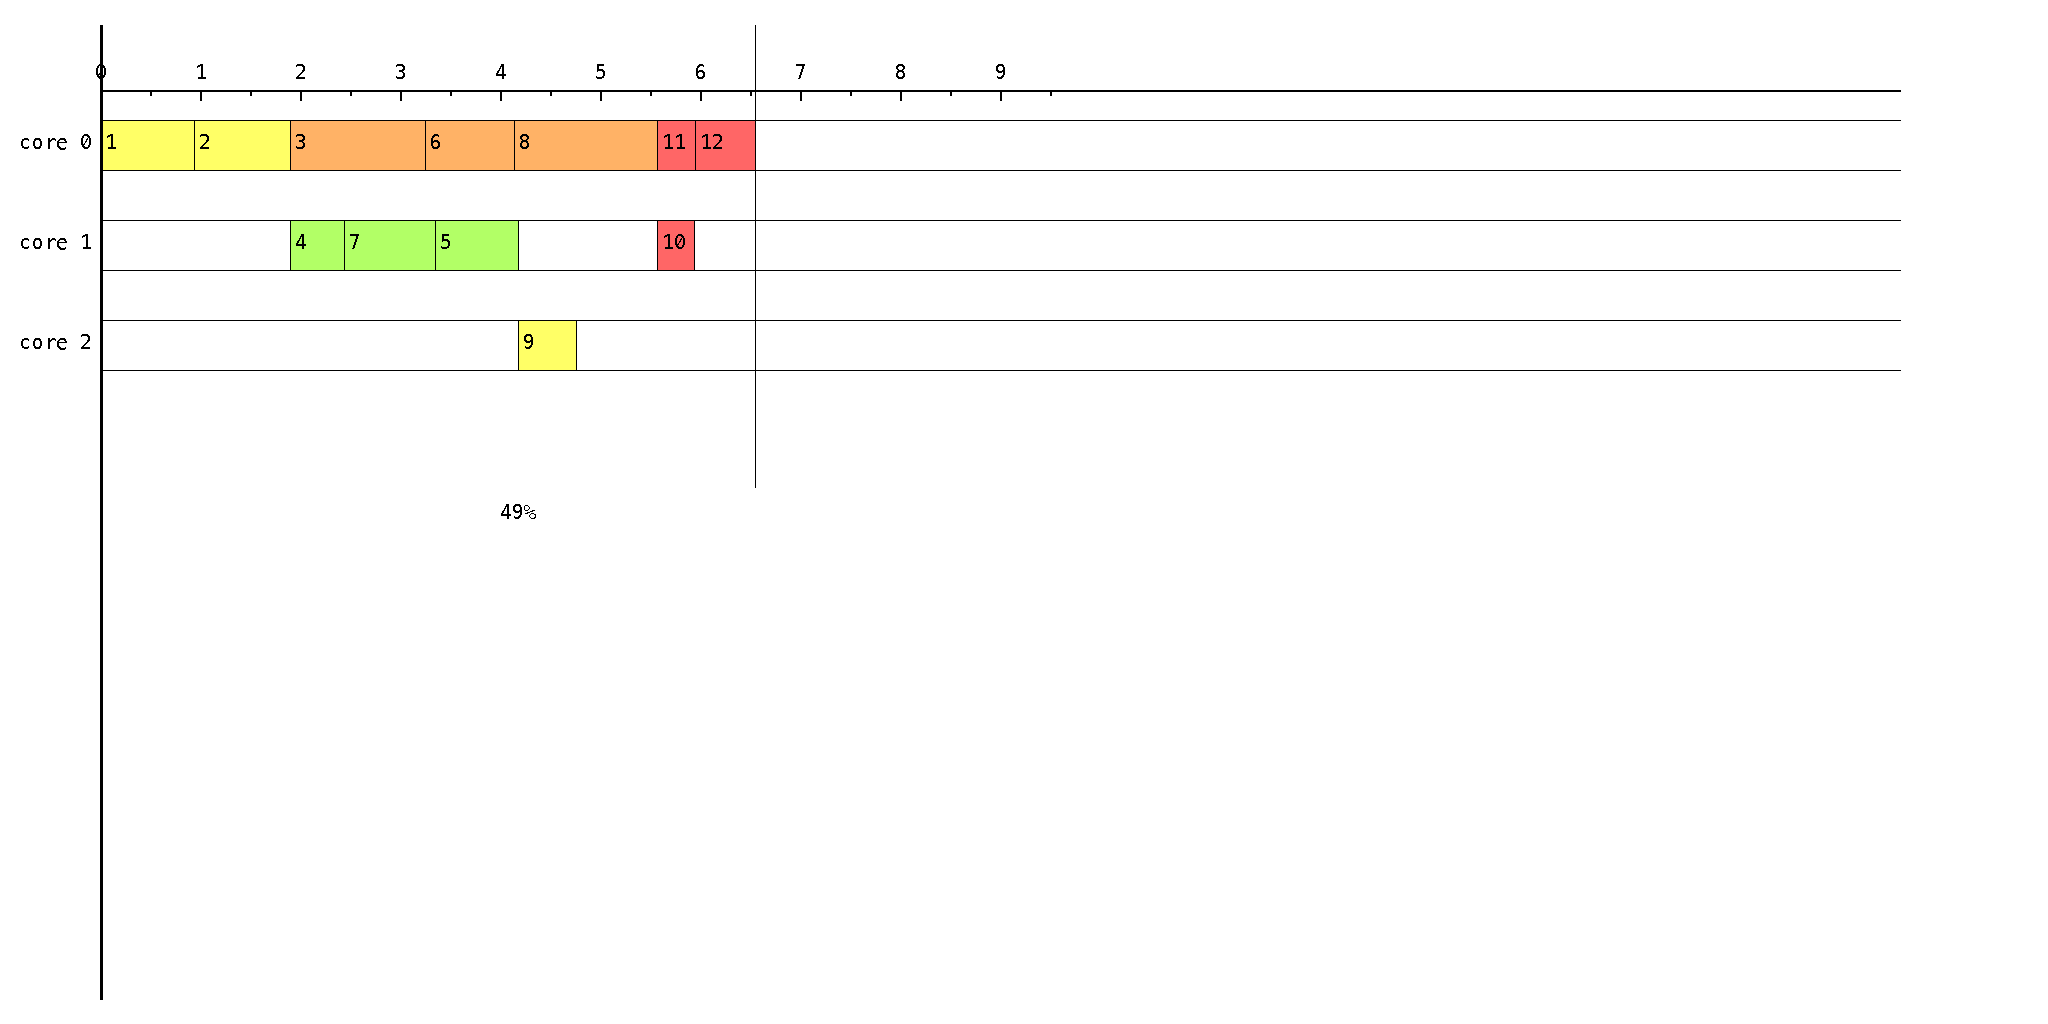
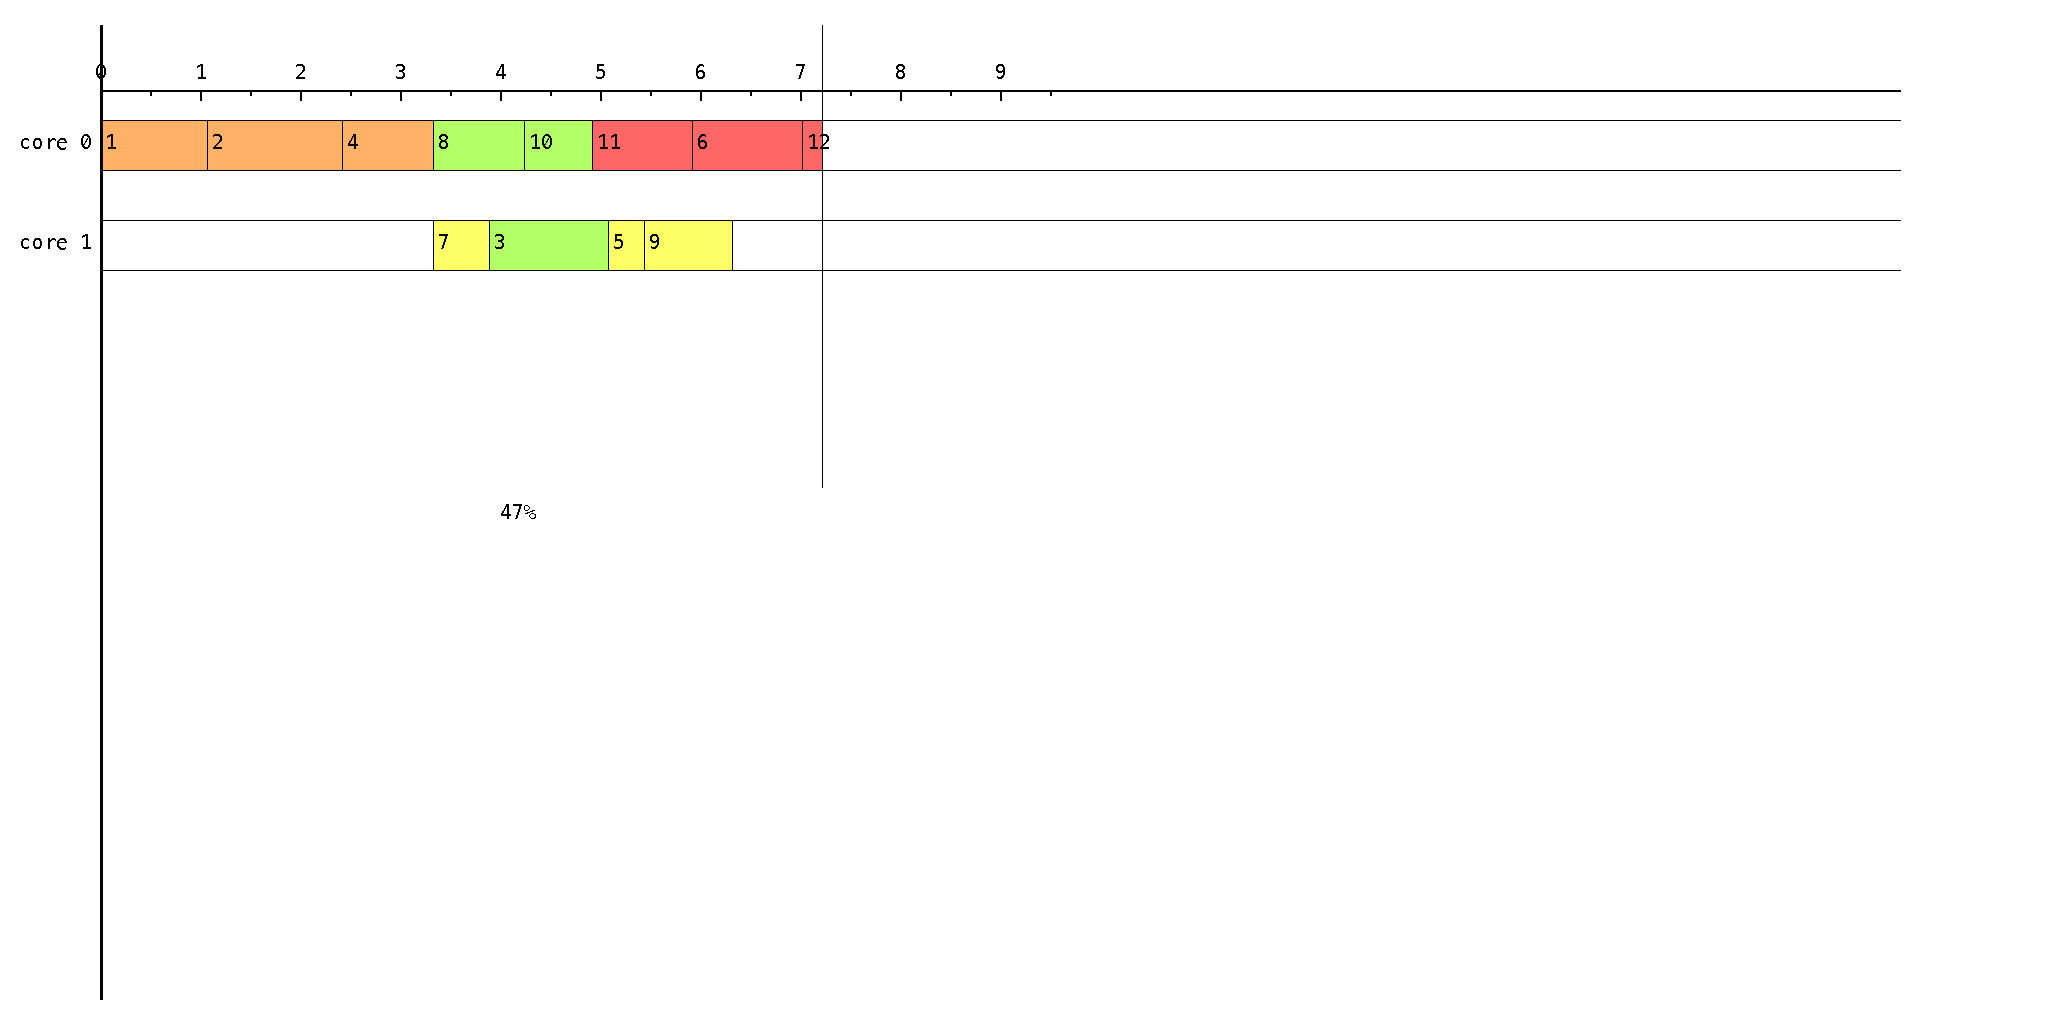
cpop modified

diff --git a/gty/src/cpop.py b/gty/src/cpop.py
@@ -223,9 +223,10 @@ def cpop():
 
     logging.info('makespan: %s', makespan(tasks))
 
-    priority_list = []
+    priority_list = [0]
     for p in processors:
         for t in p.tasks:
             priority_list.append(t)
-    print(priority_list)
+    tasks[0].processor = 0
+    print([(x.id, round(x.ast, 1), round(x.aft, 1), x.processor) for x in tasks])
     return processors, tasks, priority_list

diff --git a/gty/src/main_cpop.py b/gty/src/main_cpop.py
@@ -31,6 +31,7 @@ def main():
     # heft
     processors, tasks, priority_list = cpop()
     order = [t.id for t in priority_list]
+    print(order)
     
     # containerize
     r_dag, cpath, index, cont, bridge_tasks, new_tasks, new_processors = containerize(dag, processors, tasks, order, 'forward', 2)

diff --git a/gty/src/maxcut.py b/gty/src/maxcut.py
@@ -14,7 +14,7 @@ def graph1_parameter():
     impact_factor = 1.1
     arc_num = 18
     vertex_num = 12
-    core = 3
+    core = 2
     return impact_factor, arc_num, vertex_num, core
 
 def graph2_parameter():
